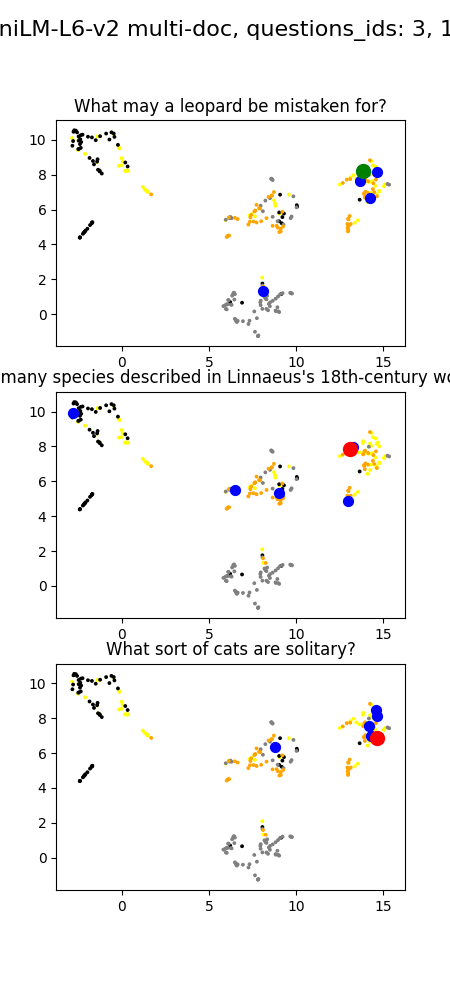
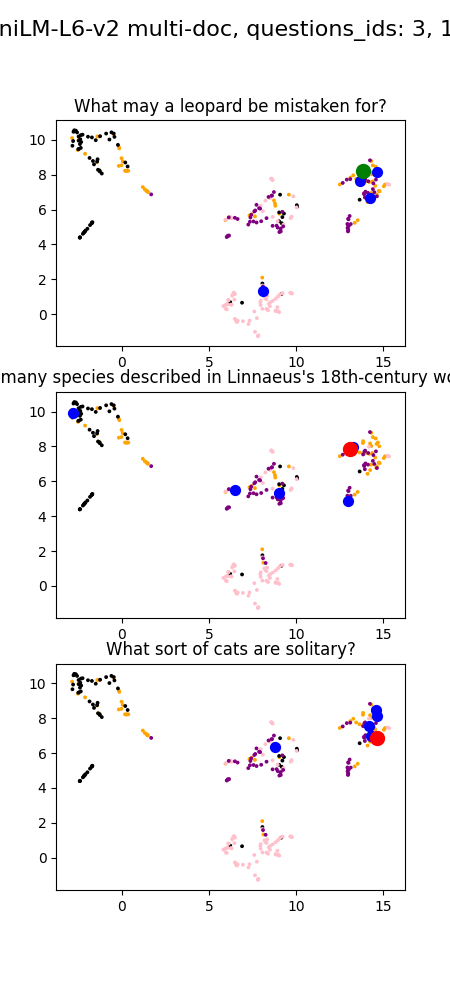
fixed a small error in the UMAP class

diff --git a/functions.py b/functions.py
@@ -424,16 +424,16 @@ class UMAP():
 
         # Document type colors
         colors = {
-            'leopard': 'yellow',
+            'leopard': 'orange',
             'penguin': 'black',
-            'polar bear': 'grey',
-            'beetle': 'orange'
+            'polar bear': 'pink',
+            'beetle': 'purple'
         }
 
         # Create a color map for the entire dataset
         color_map = []
         for i in range(len(vectors)):
-            doc_type = self.id_document_type(i)
+            doc_type = self.get_row_type(i)
             color_map.append(colors[doc_type])
 
         # Plot the provided questions

diff --git a/umap_results.py b/umap_results.py
@@ -29,6 +29,6 @@ umapper_mistral_multi_doc = UMAP(
     RAG_client=RAG_mini_multi_doc
 )
 question_id_list = [3, 19, 20]
-
+umapper_mistral_multi_doc.cluster(question_id_list)
 z = umapper_mistral_multi_doc.target_document_accuracy()
-print(z)
+#print(z)
